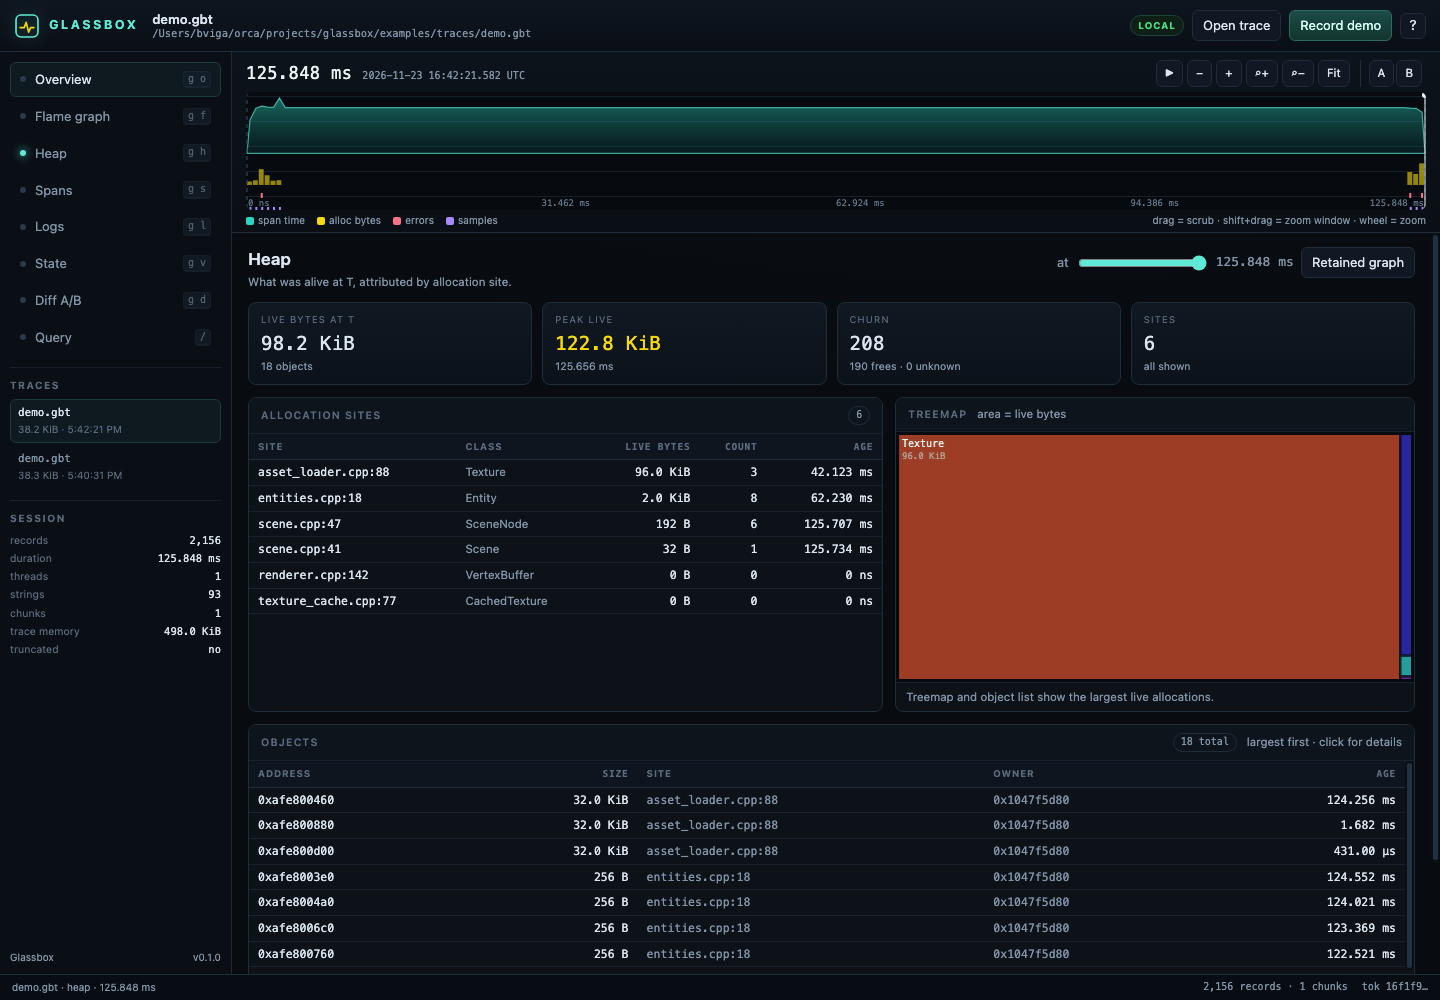
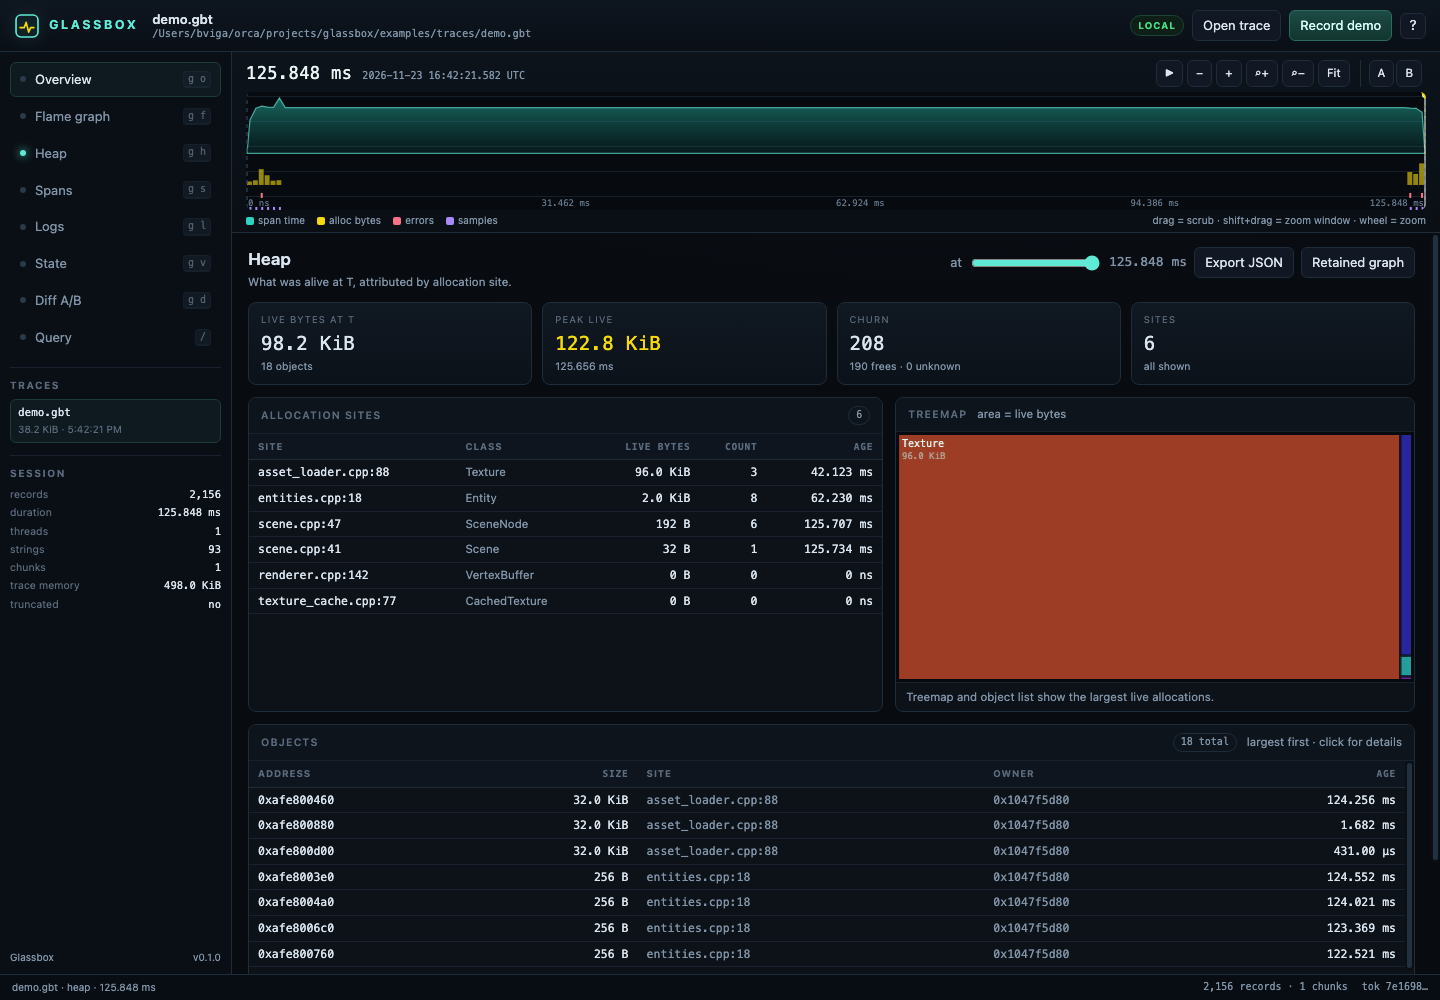
docs: add workbench screenshots for overview, flame and heap

Changed region(s): [[0.0, 0.434, 0.0625, 0.651], [0.6562, 0.248, 0.9062, 0.279], [0.125, 0.496, 0.1562, 0.651]]

diff --git a/docs/workbench.md b/docs/workbench.md
@@ -160,8 +160,12 @@ are no external fonts, CDNs, images or JavaScript libraries.
   candidates, counter sparklines, active spans, recent logs, event feed.
 - Flame: icicle canvas with zoom breadcrumbs, hover details, search highlight,
   sample/span modes, truncation notice.
+
+  ![flame](images/flame.png)
 - Heap: site table, treemap, object table, retained-graph mode, per-object
-  inspector with the originating allocation record.
+  inspector with the originating allocation record, and a moment export.
+
+  ![heap](images/heap.png)
 - Spans: waterfall canvas, active span tree, span table, inspector.
 - Logs: level filters, text filter, newest-first table.
 - State: merged snapshot state at T and A/B change view.

diff --git a/README.md b/README.md
@@ -31,6 +31,12 @@ fonts or assets, and no network access at runtime.
 - **Query** — predicates such as `type:alloc AND size > 1024 AND site ~ "asset"`.
 - **Live recording** — record the demo while the UI streams events over SSE.
 
+![flame graph](docs/images/flame.png)
+*Sample-based flame graph with real symbols, zoomable frames and sample counts.*
+
+![heap](docs/images/heap.png)
+*Heap at the final moment: leak candidates, site table, treemap and owned objects.*
+
 ## Build
 
 Requires macOS, Apple Clang with C++20, CMake 3.20+ and Ninja.
